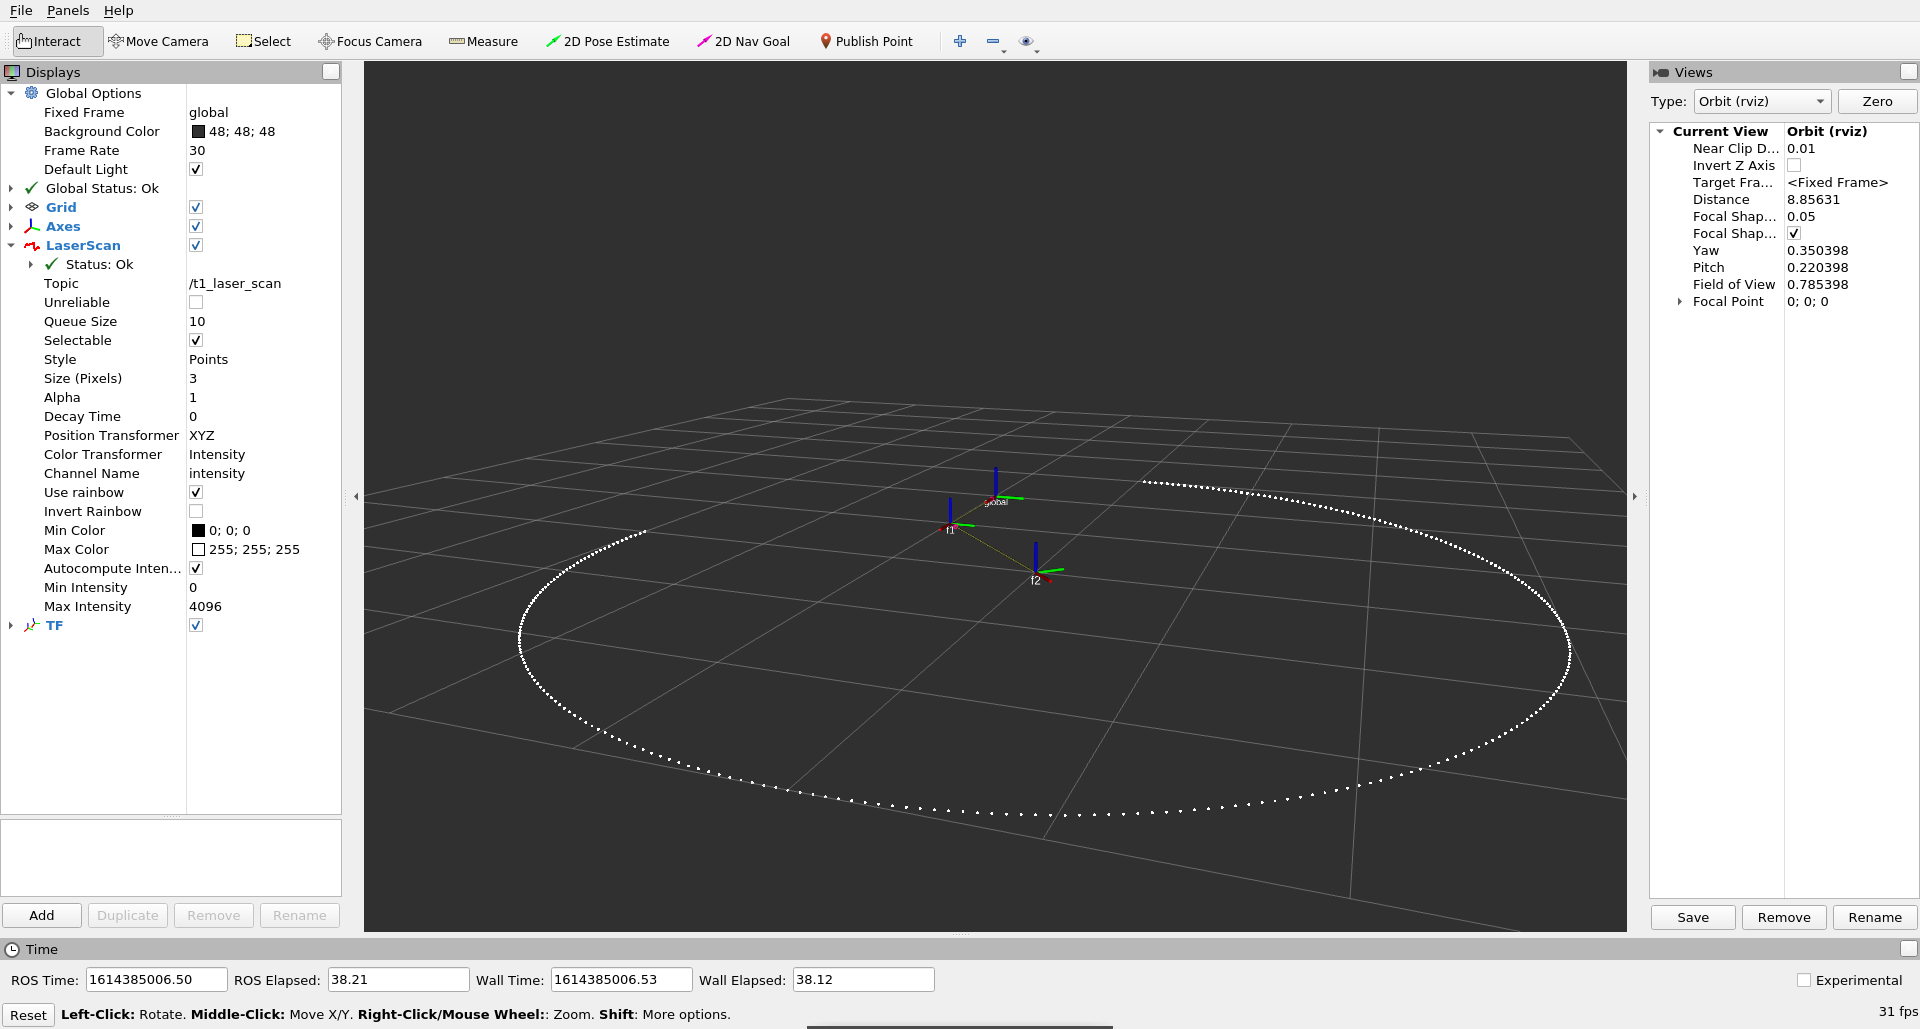
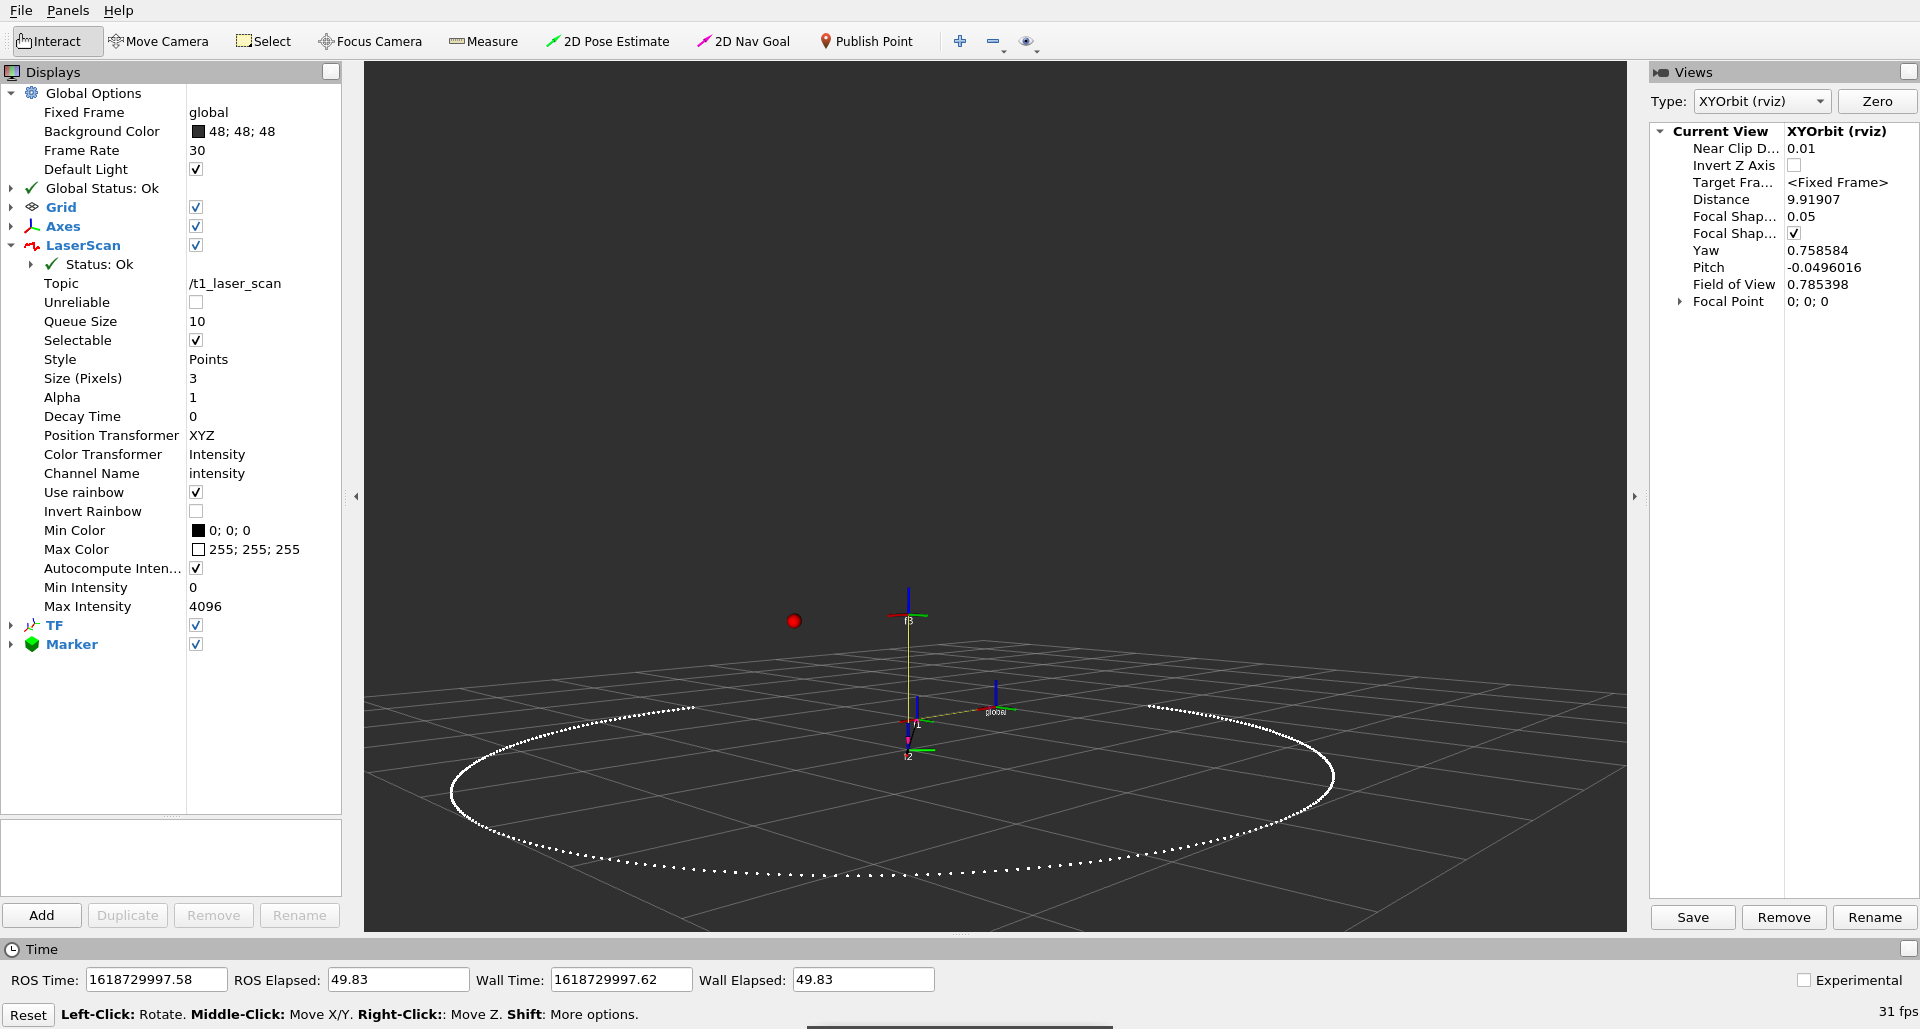
Added marker and static tf publisher for tutorial 1

diff --git a/src/basic_robotics/src/t1_markers_publilsher.cpp b/src/basic_robotics/src/t1_markers_publilsher.cpp
@@ -1,0 +1,119 @@
+/**
+ * @file t1_markers_publilsher.cpp
+ * @author Avneesh Mishra (123avneesh@gmail.com)
+ * @brief 
+ *      A node that publishes markers and a fixed transformation.
+ *          1. Publish a fixed transformation (on /tf_static) for {f2} -> {f3}
+ *          2. Publish a sphere marker
+ * @version 0.1
+ * @date 2021-04-17
+ * 
+ * @copyright Copyright (c) 2021
+ * 
+ */
+
+// Basic header files
+#include <ros/ros.h>
+// Header file for broadcasting static transformations
+/*
+ * Static transformations are published on /tf_static. Just like how transform_broadcaster.h
+ * is for /tf, static_transform_broadcaster is for /tf_static. Static transforms are meant to
+ * be published only once
+ * 
+ * Docs (C++ API): https://docs.ros.org/en/latest/api/tf2_ros/html/c++/
+ * Docs (StaticTransformBroadcaster class): https://docs.ros.org/en/latest/api/tf2_ros/html/c++/classtf2__ros_1_1StaticTransformBroadcaster.html
+ */
+#include <tf2_ros/static_transform_broadcaster.h>
+// Transform geometry message
+#include <geometry_msgs/TransformStamped.h>
+// Quaternions
+#include <tf2/LinearMath/Quaternion.h>
+// Include visualization message
+/*
+ * Markers are used to display things in RViz like spheres, arrows, etc.
+ *
+ * Reference (Markers): https://wiki.ros.org/rviz/DisplayTypes/Marker
+ * Reference (message): https://docs.ros.org/en/api/visualization_msgs/html/msg/Marker.html
+ */
+#include <visualization_msgs/Marker.h>
+
+// Some #define macros for the program
+// Convert 'x' from degrees to radians
+#define DEG_TO_RAD(x) ( (M_PI/(double)180) * ((double) x) )
+// Convert 'x' from radians to degrees
+#define RAD_TO_DEG(x) ( ((double)180/M_PI) * ((double) x) )
+
+using namespace std;
+
+
+// Main function
+int main(int argc, char **argv)
+{
+    // Initialize the node
+    ros::init(argc, argv, "t1_cpp_markers_publisher");
+    // Create node handler
+    ros::NodeHandle nh("~");
+
+    // Create publisher to broadcast static transformation
+    tf2_ros::StaticTransformBroadcaster stf_broadcaster;
+    // Create a static transformation message for {f2} -> {f3} ({f3} in {f2})
+    geometry_msgs::TransformStamped stf_msg;
+    stf_msg.header.seq = 1;
+    stf_msg.header.stamp = ros::Time::now();
+    stf_msg.header.frame_id = "f2"; // From {f2}
+    stf_msg.child_frame_id = "f3";  // To {f3}
+    // {f3} is at [0, 0, 1] in {f2}
+    stf_msg.transform.translation.x = 0;
+    stf_msg.transform.translation.y = 0;
+    stf_msg.transform.translation.z = 1;
+    // Rotate along Z (yaw) by -45 deg
+    tf2::Quaternion f2_f3_quat;
+    f2_f3_quat.setRotation(tf2::Vector3(0, 0, 1), DEG_TO_RAD(-45)); // -45 deg along Z axis
+    stf_msg.transform.rotation.w = f2_f3_quat.w();
+    stf_msg.transform.rotation.x = f2_f3_quat.x();
+    stf_msg.transform.rotation.y = f2_f3_quat.y();
+    stf_msg.transform.rotation.z = f2_f3_quat.z();
+    // Publish a static transformation
+    stf_broadcaster.sendTransform(stf_msg);
+
+    // Create a publisher for the markers (topic name must match that in Rviz)
+    ros::Publisher marker_publisher = nh.advertise<visualization_msgs::Marker>("/visualization_marker", 10);
+    // Sphere marker
+    visualization_msgs::Marker sphere_marker;
+    sphere_marker.header.seq = 0;
+    sphere_marker.header.frame_id = "f3";   // In {f3}
+    sphere_marker.ns = "frames";    // Namespace for filtering
+    sphere_marker.id = 10;  // A unique ID in the namespace
+    sphere_marker.type = visualization_msgs::Marker::SPHERE;    // This is a sphere
+    sphere_marker.action = visualization_msgs::Marker::ADD; // Add this object (same as modify)
+    sphere_marker.color.a = 1;
+    sphere_marker.color.r = 1;
+    sphere_marker.color.g = 0;
+    sphere_marker.color.b = 0;  // Red color marker (with alpha = 1)
+    sphere_marker.pose.orientation.w = 1;
+    sphere_marker.pose.orientation.x = 0;
+    sphere_marker.pose.orientation.y = 0;
+    sphere_marker.pose.orientation.z = 0;   // Assign orientation (no rotation)
+    sphere_marker.scale.x = sphere_marker.scale.y = sphere_marker.scale.z = 0.1;  // 0.1m diameter
+    // Sphere marker parameters
+    double freq = 2.0 * M_PI / (5.0);   // 5 second time period
+    ros::Time start_t = ros::Time::now();   // Starting time    
+    ros::Rate rate_hdlr(30);    // 30 Hz for publishing rate
+
+    // Main loop
+    while (ros::ok()) {
+        ros::Time curr_time = ros::Time::now(); // Current time
+        // Update header
+        sphere_marker.header.seq += 1;
+        sphere_marker.header.stamp = curr_time;
+        double dt = (curr_time - start_t).toSec();  // Time delay
+        sphere_marker.pose.position.x = 1.0 * cos(dt*freq);
+        sphere_marker.pose.position.y = 1.0 * sin(dt*freq);
+        sphere_marker.pose.position.z = 0;
+        // Publish the sphere marker
+        marker_publisher.publish(sphere_marker);  
+        // Sleep
+        rate_hdlr.sleep();
+    }
+    return 0;
+}

diff --git a/src/basic_robotics/scripts/t1_markers_publisher.py b/src/basic_robotics/scripts/t1_markers_publisher.py
@@ -1,0 +1,101 @@
+"""
+    A node that publishes markers and a fixed transformation
+        1. Publish a fixed transformation (on /tf_static) for {f2} -> {f3}
+        2. Publish a sphere marker
+"""
+
+# Basic imports
+from numpy.core.numerictypes import ScalarType
+import rospy
+import sys
+import math
+# Module for broadcasting static transformations
+"""
+    Static transformations are published on /tf_static. Just like how transform_broadcaster.h
+    is for /tf, static_transform_broadcaster is for /tf_static. Static transforms are meant to
+    be published only once
+
+    Docs (Python API): https://docs.ros.org/en/melodic/api/tf2_ros/html/python/
+"""
+from tf2_ros import StaticTransformBroadcaster
+# Transform geometry message
+from geometry_msgs.msg import TransformStamped
+# Import transformations libraries
+from tf import transformations
+# Marker class (for visualization markers)
+from visualization_msgs.msg import Marker
+
+
+# Main function
+def main():
+    # Initialize node
+    rospy.init_node("t1_py_markers_publisher", argv=sys.argv)
+
+    # Create transform broadcaster
+    stf_broadcaster = StaticTransformBroadcaster()
+    stf_msg = TransformStamped()    # Static transformation message for {f2} -> {f3} ({f3} in {f2})
+    stf_msg.header.seq = 1
+    stf_msg.header.stamp = rospy.Time.now()
+    stf_msg.header.frame_id = "f2"  # From {f2}
+    stf_msg.child_frame_id = "f3"   # To {f3}
+    # {f3} is at [0, 0, 1] in {f2}
+    stf_msg.transform.translation.x = 0
+    stf_msg.transform.translation.y = 0
+    stf_msg.transform.translation.z = 1
+    # Rotate along Z (yaw) by -45 deg
+    f2_f3_quat = transformations.quaternion_about_axis(math.radians(-45), (0, 0, 1))
+    stf_msg.transform.rotation.x = f2_f3_quat[0]
+    stf_msg.transform.rotation.y = f2_f3_quat[1]
+    stf_msg.transform.rotation.z = f2_f3_quat[2]
+    stf_msg.transform.rotation.w = f2_f3_quat[3]
+    # Publish a static transform
+    stf_broadcaster.sendTransform(stf_msg)
+
+    # Create a publisher for the markers (topic name must match that in Rviz)
+    marker_publisher = rospy.Publisher("/visualization_marker", Marker, queue_size=10)
+    # Sphere marker
+    sphere_marker = Marker()
+    sphere_marker.header.seq = 0
+    sphere_marker.header.frame_id = "f3"    # In {f3}
+    sphere_marker.ns = "frames" # Namespace for flitering
+    sphere_marker.id = 10   # A unique ID in the namespace
+    sphere_marker.type = Marker.SPHERE  # This is a sphere
+    sphere_marker.action = Marker.ADD   # Add this object (same as modify)
+    sphere_marker.color.a = 1
+    sphere_marker.color.r = 1
+    sphere_marker.color.g = 0
+    sphere_marker.color.b = 0   # Red color marker (with alpha = 1)
+    sphere_marker.pose.orientation.w = 1
+    sphere_marker.pose.orientation.x = 0
+    sphere_marker.pose.orientation.y = 0
+    sphere_marker.pose.orientation.z = 0    # Assign orientation (no rotation)
+    sphere_marker.scale.x = 0.1
+    sphere_marker.scale.y = 0.1
+    sphere_marker.scale.z = 0.1 # 0.1m diameter
+    # Sphere marker parameters
+    freq = 2.0 * math.pi / 5.0    # 5 second time period
+    start_t = rospy.Time.now()  # Starting time
+    rate_hdlr = rospy.Rate(30)  # 30 Hz for publishing rate
+
+    # Main loop
+    while (not rospy.is_shutdown()):
+        curr_time = rospy.Time.now()
+        # Update header
+        sphere_marker.header.seq += 1
+        sphere_marker.header.stamp = curr_time
+        dt = (curr_time - start_t).to_sec()
+        sphere_marker.pose.position.x = 1.0 * math.cos(dt*freq)
+        sphere_marker.pose.position.y = 1.0 * math.sin(dt*freq)
+        sphere_marker.pose.position.z = 0
+        # Publishing the sphere marker
+        marker_publisher.publish(sphere_marker)
+        # Sleep
+        rate_hdlr.sleep()
+
+
+# Entry point
+if __name__ == "__main__":
+    try:
+        main()
+    except rospy.ROSException as exc:
+        rospy.logfatal("Fatal error occurred: {}".format(exc))

diff --git a/src/basic_robotics/README.md b/src/basic_robotics/README.md
@@ -26,6 +26,8 @@ Basic Robotics related software provided in ROS. This package includes a brief o
         - [TF Publisher (C++) for Tutorial 1](#tf-publisher-c-for-tutorial-1)
             - [Building](#building-1)
             - [Running](#running-1)
+        - [Marker and Static TF Publisher (C++) for Tutorial 1](#marker-and-static-tf-publisher-c-for-tutorial-1)
+            - [Building and Running](#building-and-running)
     - [Python Nodes](#python-nodes)
         - [Laser Scan Publisher (Python) for Tutorial 1](#laser-scan-publisher-python-for-tutorial-1)
             - [Building](#building-2)
@@ -33,6 +35,8 @@ Basic Robotics related software provided in ROS. This package includes a brief o
         - [TF Publisher (Python) for Tutorial 1](#tf-publisher-python-for-tutorial-1)
             - [Building](#building-3)
             - [Running](#running-3)
+        - [Marker and Static TF Publisher (Python) for Tutorial 1](#marker-and-static-tf-publisher-python-for-tutorial-1)
+            - [Building and Running](#building-and-running-1)
     - [RViz configuration files](#rviz-configuration-files)
         - [LaserScan and TF for Tutorial 1](#laserscan-and-tf-for-tutorial-1)
         - [RobotDescription and TF for Tutorial 2](#robotdescription-and-tf-for-tutorial-2)
@@ -64,7 +68,7 @@ Short tutorials included in this package made to cover essential concepts. They 
 | S. No. | Name | Notes |
 | :--- | :--- | :--- |
 | 1 | [Getting Started with RViz](#tutorial-0-getting-started-with-rviz) | Launching RViz and terminologies |
-| 2 | [Visualizing data in RViz](#tutorial-1-visualizing-data-in-rviz) | Visualize `TF` and `LaserScan` using dummy publishers |
+| 2 | [Visualizing data in RViz](#tutorial-1-visualizing-data-in-rviz) | Visualize `TF`, `Marker` and `LaserScan` using dummy publishers |
 | 3 | [Building and Visualizing Robot Models](#tutorial-2-building-and-visualizing-robot-models) | Building a four wheel robot using `URDF` and `XACRO`, then visualizing it using `RobotModel` |
 
 ### Tutorial 0: Getting Started with RViz
@@ -107,15 +111,17 @@ In this tutorial, we explore how to visualize data on a topic in RViz. For this 
 
 This tutorial uses the following resources of this package
 
-| S. No. | File | Purpose | Notes |
+| S. No. | File / Node name | Purpose | Notes |
 | :--- | :--- | :---: | :---- |
 | 1 | [LaserScan_TF_T1](#laserscan-and-tf-for-tutorial-1) | RViz configuration file | The configuration file consisting of `LaserScan` and `TF` display and an `Axes` |
 | 2a | [t1_cpp_laser_scan_publisher](#laser-scan-publisher-c-for-tutorial-1) | C++ Publisher | Dummy publisher for `LaserScan` |
 | 2b | [t1_laser_scan_publisher.py](#laser-scan-publisher-python-for-tutorial-1) | Python Publisher | Dummy publisher for `LaserScan` |
 | 3a | [t1_cpp_tf_broadcaster](#tf-publisher-c-for-tutorial-1) | C++ Transform Broadcaster | Dummy publisher / broadcaster for `TF` |
 | 3b | [t1_tf_publisher.py](#tf-publisher-python-for-tutorial-1) | Python Transform Broadcaster | Dummy publisher / broadcaster for `TF` |
-| 4a | [t1_cpp_everything.launch](#launch-c-for-tutorial-1) | Launch file (C++) | Launch file for launching all C++ nodes described above |
-| 4b | [t1_py_everything.launch](#launch-python-for-tutorial-1) | Launch file (Python) | Launch file for launching all Python nodes described above |
+| 4a | [t1_cpp_markers_publisher](#marker-and-static-tf-publisher-c-for-tutorial-1) | C++ Marker and Static Transform publisher | Dummy publisher for `/tf_static` and a sphere marker in RViz |
+| 4b | [t1_markers_publisher.py](#marker-and-static-tf-publisher-python-for-tutorial-1) | Python Marker and Static Transform publisher | Dummy publisher for `/tf_static` and a sphere marker in RViz |
+| 5a | [t1_cpp_everything.launch](#launch-c-for-tutorial-1) | Launch file (C++) | Launch file for launching all C++ nodes described above |
+| 5b | [t1_py_everything.launch](#launch-python-for-tutorial-1) | Launch file (Python) | Launch file for launching all Python nodes described above |
 
 To run everything in this tutorial, use the command
 
@@ -209,8 +215,9 @@ Launches all the C++ Nodes for tutorial 1, along with RViz and TF visualization 
 
 1. [t1_cpp_tf_broadcaster](#tf-publisher-c-for-tutorial-1)
 2. [t1_cpp_laser_scan_publisher](#laser-scan-publisher-c-for-tutorial-1)
-3. RViz with the configuration file for the tutorial: [LaserScan_TF_T1](#laserscan-and-tf-for-tutorial-1)
-4. Node `rqt_tf_tree` of package `rqt_tf_tree`
+3. [t1_cpp_markers_publisher](#marker-and-static-tf-publisher-c-for-tutorial-1)
+4. RViz with the configuration file for the tutorial: [LaserScan_TF_T1](#laserscan-and-tf-for-tutorial-1)
+5. Node `rqt_tf_tree` of package `rqt_tf_tree`
 
 ### Launch Python for Tutorial 1
 
@@ -223,8 +230,9 @@ Launches all the Python Nodes for tutorial 1, along with RViz and TF visualizati
 
 1. [t1_py_laser_scan_publisher](#laser-scan-publisher-python-for-tutorial-1)
 2. [t1_py_tf_broadcaster](#tf-publisher-python-for-tutorial-1)
-3. RViz with the configuration file for the tutorial: [LaserScan_TF_T1](#laserscan-and-tf-for-tutorial-1)
-4. Node `rqt_tf_tree` of package `rqt_tf_tree`
+3. [t1_py_markers_publisher](#marker-and-static-tf-publisher-python-for-tutorial-1)
+4. RViz with the configuration file for the tutorial: [LaserScan_TF_T1](#laserscan-and-tf-for-tutorial-1)
+5. Node `rqt_tf_tree` of package `rqt_tf_tree`
 
 ### Launch single link for Tutorial 2
 
@@ -391,6 +399,31 @@ The output must be something show a transformation tree somewhat like this
 
 ![TF observed in rqt_tf_tree](./media/pic6.png)
 
+### Marker and Static TF Publisher (C++) for Tutorial 1
+
+| Field | Value |
+| :---- | :---- |
+| Name | `t1_cpp_markers_publisher` |
+| File | [src/t1_markers_publilsher.cpp](./src/t1_markers_publilsher.cpp) |
+
+This node publishes static transformations on the `/tf_static` topic. It also publishes a sphere marker. This node is included in the [launch file](#launch-c-for-tutorial-1) for [tutorial 1](#tutorial-1-visualizing-data-in-rviz).
+
+#### Building and Running
+
+In `CMakeLists.txt` add the following
+
+1. In the `find_package` function, add dependency on `geometry_msgs` and `visualization_msgs`. Add them also to the `CATKIN_DEPENDS` list in `catkin_package` function.
+2. Add the following lines at appropriate places for building the executables
+
+    ```makefile
+    add_executable(t1_markers_publisher src/t1_markers_publilsher.cpp)
+    target_link_libraries(t1_markers_publisher ${catkin_LIBRARIES})
+    ```
+
+In the `package.xml` file, add `<build_depend>`, `<exec_depend>` and `<build_export_depend>` tags for `geometry_msgs` and `visualization_msgs` package (dependencies).
+
+Build the package using `catkin_make` in the workspace directory. This node is included in the [launch file](#launch-c-for-tutorial-1) for [tutorial 1](#tutorial-1-visualizing-data-in-rviz).
+
 ## Python Nodes
 
 ### Laser Scan Publisher (Python) for Tutorial 1
@@ -539,6 +572,26 @@ The output must be something show a transformation tree somewhat like this
 
 ![TF observed in rqt_tf_tree](./media/pic6.png)
 
+### Marker and Static TF Publisher (Python) for Tutorial 1
+
+| Field | Value |
+| :---- | :---- |
+| Name | `t1_py_markers_publisher` |
+| File | [scripts/t1_markers_publisher.py](./scripts/t1_markers_publisher.py) |
+
+This node publishes static transformations on the `/tf_static` topic. It also publishes a sphere marker. This node is included in the [launch file](#launch-python-for-tutorial-1) for [tutorial 1](#tutorial-1-visualizing-data-in-rviz).
+
+#### Building and Running
+
+In `CMakeLists.txt` add the following
+
+1. In the `find_package` function, add dependency on `geometry_msgs` and `visualization_msgs`. Add them also to the `CATKIN_DEPENDS` list in `catkin_package` function.
+2. Add `scripts/t1_markers_publisher.py` to `PROGRAMS` in the `catkin_install_python` function.
+
+In the `package.xml` file, add `<build_depend>`, `<exec_depend>` and `<build_export_depend>` tags for `geometry_msgs` and `visualization_msgs` package (dependencies).
+
+Build the package using `catkin_make` in the workspace directory. This node is included in the [launch file](#launch-python-for-tutorial-1) for [tutorial 1](#tutorial-1-visualizing-data-in-rviz).
+
 ## RViz configuration files
 
 ### LaserScan and TF for Tutorial 1
@@ -554,8 +607,9 @@ This file is made for Tutorial 1. It is to view a `LaserScan` and a `TF`. Here's
 2. Add an `Axes` on the frame. This will serve as a reference frame (to know where the X, Y and Z of the world frame are). Customize it to your liking.
 3. Add a `LaserScan`. This will be used to display a 2D laser scan in the frame. For now, let the topic be empty.
 4. Add a `TF`. This will enable us to visualize the transformation tree on a topic called `/tf`.
-5. Save the configuration in the folder `rviz` inside the workspace (the file is linked above).
-6. Close rviz and try running the following commands to test if everything is working
+5. Add a `Marker` and set the topic to `/visualization_marker` for source.
+6. Save the configuration in the folder `rviz` inside the workspace (the file is linked above).
+7. Close rviz and try running the following commands to test if everything is working
 
     ```bash
     roscd basic_robotics
